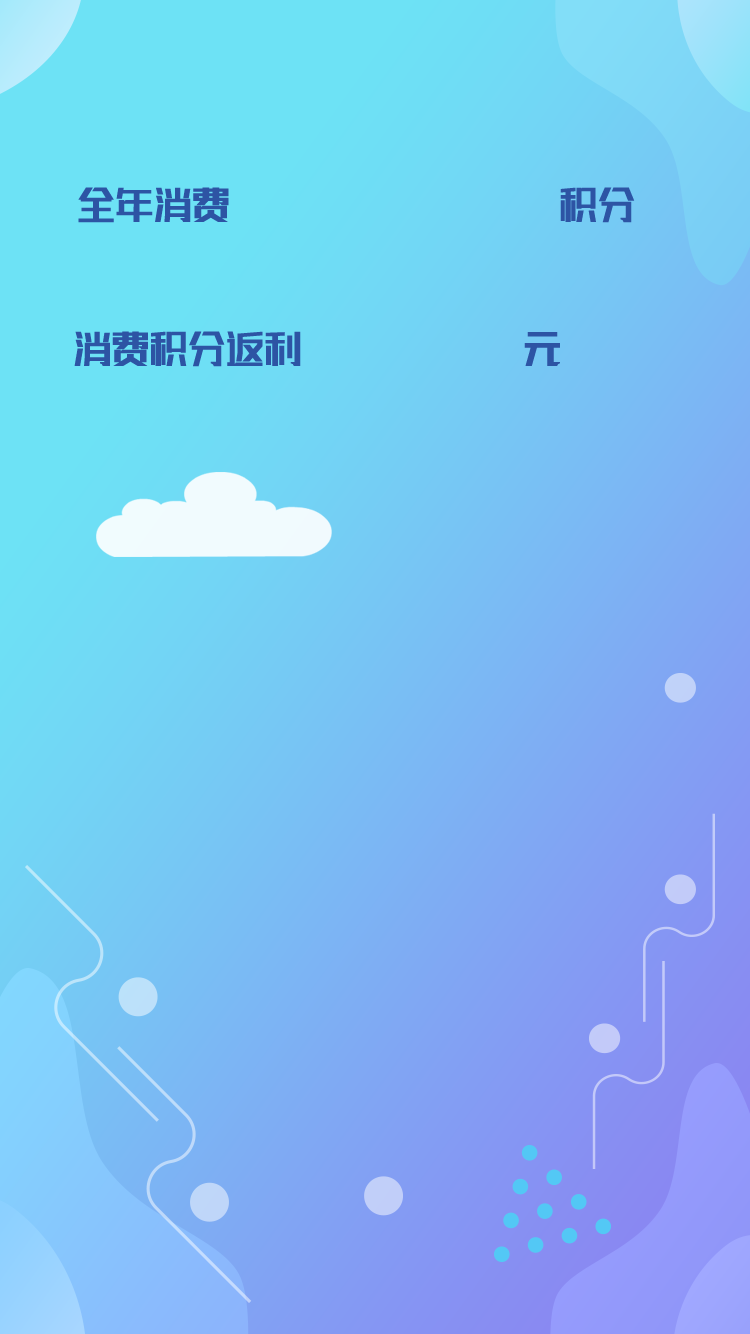
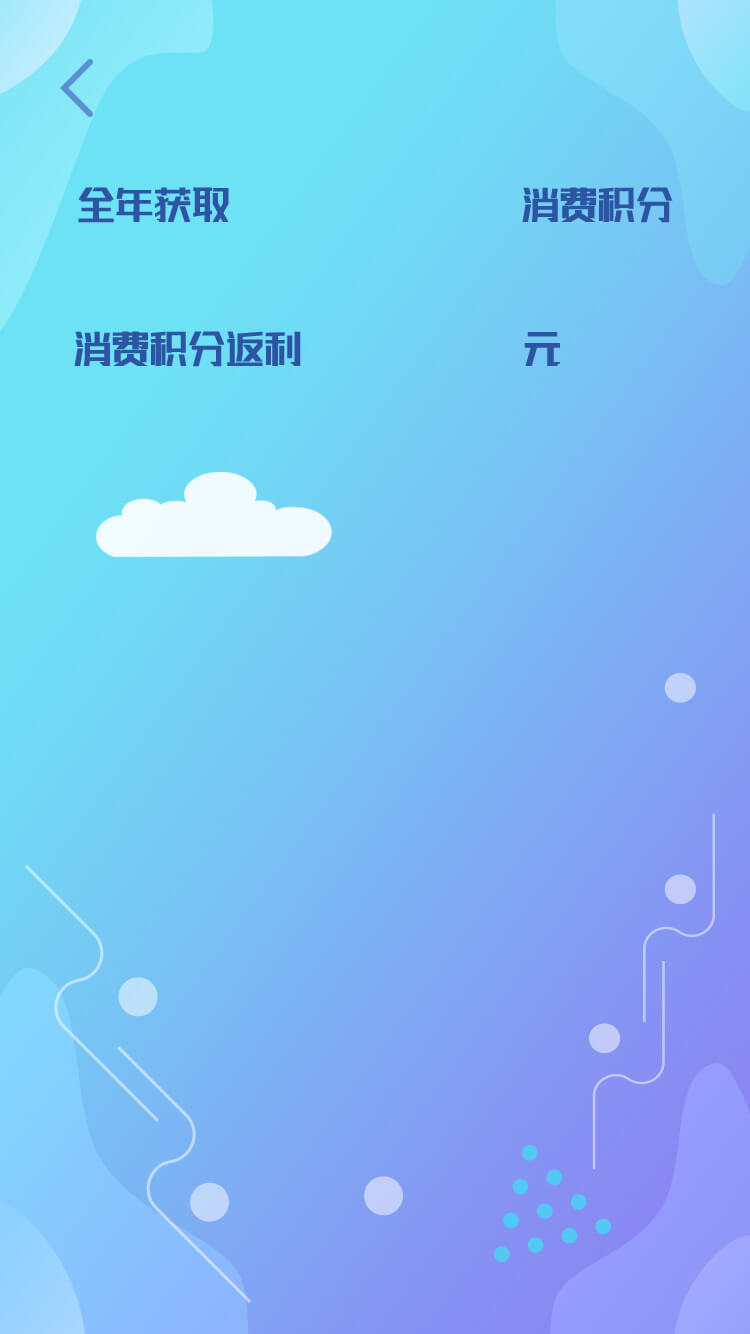
背景图更换和4，5页更换

Changed region(s): [[0.0, 0.0, 0.3067, 0.2459], [0.7053, 0.1229, 0.8893, 0.1844], [0.2147, 0.1229, 0.3067, 0.1844]]

diff --git a/birthday.html b/birthday.html
@@ -33,12 +33,12 @@
 		.sec1 img:nth-child(1){position: absolute;left: 10%;bottom: 15%;width: 85%;}
 		.sec1 img:nth-child(2){position: absolute;left: 8.5rem;bottom: 6%;width: 0.5rem;} 
 		.sec2 .center{width: 100%;text-align: center;margin-top:6%;}
-		.sec2 .center img{width: 55%}
+		.sec2 .center img{width: 42%}
 		/*.sec2 img:nth-child(1){position: absolute;left: 23%;bottom: 15%;width: 58%;}*/
-		.archives{width: 100%;margin:0.7rem auto;text-align: center;font-size: 0.7rem;}  
+		.archives{width: 100%;margin:0.4rem auto;text-align: center;font-size: 0.7rem;}  
 		.contant{width: 80%;background: #ffce35;margin: 0 auto;font-size: 0.45rem;border-radius: 3px}
 		.contant div{line-height: 1rem;margin-left: 0.7rem}
-		.contant div input{-webkit-appearance: none;outline: none;border:none;font-size: 0.45rem;background: #ffce35;width:30%;border-bottom: 1.5px solid black;}
+		.contant div input{-webkit-appearance: none;outline: none;border:none;font-size: 0.45rem;background: #ffce35;width:30%;border-bottom: 1.5px solid black;border-radius:0;}
 		.contant div span{border-bottom: 1.5px solid black;}
 		.contant div:nth-child(1){padding-top:.5rem;}
 		.daytime{
@@ -54,7 +54,7 @@
 			text-align: center;font-weight: bold;}
 		.daywhere span{font-size: .5rem}
 		.top{width: 1.2rem;color: #fff; position: absolute;left: 8.3rem;font-size: 0.5rem;font-weight: bold;bottom: 12%;}
-		.archivess{width: 6.5rem;height: 1rem;background: #fb383e;margin-left:1.8rem;margin-top:.6rem;text-align: center;color: #fff;font-size: 0.5rem;line-height: 1rem;border-radius: 20px;}
+		.archivess{width: 6.5rem;height: 1rem;background: #fb383e;margin-left:1.8rem;text-align: center;color: #fff;font-size: 0.5rem;line-height: 1rem;border-radius: 20px;position: absolute;bottom: 90px;}
 		.mousehei{margin: 12% auto;text-align: center;}
 		.mousehei img{width: 71%;}
 	</style>
@@ -102,14 +102,14 @@
 			var zhucetime = window.localStorage.getItem("zhucetime");//获取注册时间
 			var date = new Date(zhucetime);
 			var year = date.getFullYear(),month = date.getMonth()+1,day = date.getDate();
-			// var clientHeight = document.body.clientHeight;
+			var clientHeight = document.body.clientHeight;
 			// $(".section").css("height",clientHeight+"px")
-			if(clientHeight <= 667){
-			  $(".center img").css("width","40%");
-			  $(".archivess").css("marginTop",".3rem");
-			  $(".archives").css("margin","0.4rem auto");
-			  $("._mouse").css("width","75%").css("left","13%")
-			}
+			// if(clientHeight <= 667){
+			//   $(".center img").css("width","40%");
+			//   $(".archivess").css("marginTop",".3rem");
+			//   $(".archives").css("margin","0.4rem auto");
+			//   $("._mouse").css("width","75%").css("left","13%")
+			// }
 			 
 	 // ---------1-------------------------
             $(".year").html(year);//获取年
@@ -148,7 +148,6 @@
 		    $('.archivess').on("touchend",function(){
 		    	alert('假设注册时间'+zhucetime)
 				  time ('Jan 1,2020',zhucetime).then((x)=>{
-					  console.log(x)
 				     x == "yes"?window.location.href='archives.html':window.location.href='noscore.html'
 				   })
 		    })

diff --git a/archives.html b/archives.html
@@ -34,8 +34,8 @@
 			/*background: url('image/bg_4@2x.jpg') 0 0/100% 100%;*/
 			/*background-size: 100% 100%;*/
 		}
-		.sec4{background: url('image/bg_5@2x.jpg') 0 0/100% 100%;}
-		.sec5{background: url('image/bg_6@2x.jpg') 0 0/100% 100%;}
+		.sec5{background: url('image/bg_5@2x.jpg') 0 0/100% 100%;}
+		.sec4{background: url('image/bg_6@2x.jpg') 0 0/100% 100%;}
 		.sec1 span{font-size: .3rem;color: #fff;}
 		.sec1 span:nth-child(1){position: absolute;left: 25.6%;top: 50.2%;}
 		.sec1 span:nth-child(2){position: absolute;left: 70.5%;top: 58%;}
@@ -49,14 +49,14 @@
 		.sec2 .items{font-size: 1.3rem; position: absolute; left: 2.15rem;top: 20.5%;width: 3.2rem;text-align: center;color: #dc3939;}
 		/*.sec1 img:nth-child(1){position: absolute;left: 0.4rem;top: 8.2rem;width: 9rem;height: 7rem;}
 		.sec1 img:nth-child(2){position: absolute;left: 8.4rem;top: 16.2rem;width: .7rem;height: 1rem;} */
-		.sec3 .bigScore .scores{font-size: 1.2rem; position: absolute;left: 3.2rem;top: 10%;width: 4rem;text-align: center;color: #dc3939;}
+		.sec3 .bigScore .scores{font-size: 1.2rem; position: absolute;left: 3.2rem;top: 10%;width: 3.6rem;text-align: center;color: #dc3939;}
 		.sec3 .bigScore .rebate{font-size: 1.2rem;position: absolute;left: 4.1rem;top: 21%;width: 2.8rem;text-align: center;color: #dc3939;}
 		.sec3 .bigScore img{position: absolute;left: 15%;bottom: 17%;width: 64%;}
 		.sec3 .smallScore img{position: absolute;left: 20%;bottom: 8%;width: 62%;}
-		.sec4 img{position: absolute;left: 11%; bottom: 8%;width: 65%;}
-		.sec5 img{position: absolute;left: 13%; bottom: 13%;width: 75%;}
-        .sec5 .plays{font-size: 1.2rem;position: absolute;left: 3.8rem;top: 10%;width: 2.4rem;text-align: center;color: #dc3939;}
-        .sec5 .moneys{font-size: 1.2rem; position: absolute;left: 3.8rem;top: 21%;width: 3.5rem; text-align: center;color: #dc3939;}
+		.sec5 img{position: absolute;left: 11%; bottom: 8%;width: 65%;}
+		.sec4 img{position: absolute;left: 13%; bottom: 13%;width: 75%;}
+        .sec4 .plays{font-size: 1.2rem;position: absolute;left: 3.8rem;top: 10%;width: 1.9rem;text-align: center;color: #dc3939;}
+        .sec4 .moneys{font-size: 1.2rem; position: absolute;left: 3.8rem;top: 21%;width: 3.5rem; text-align: center;color: #dc3939;}
         .sec6 .bigExperience img{position: absolute;left: 21%;bottom:7%;width: 56%;}
 		.sec6 .smallExperience img{position: absolute;left: 27%;bottom:12%;width: 60%;}
         .sec6 .bigExperience .shopMoney{font-size: 1.2rem; position: absolute;left: 4.8rem;top: 10%;width: 3.5rem; text-align: center;color: #dc3939;}
@@ -99,13 +99,14 @@
 	</div>
 	<!-- 第四页 -->
 	<div class="section sec4">
-       <img src="image/mouse_5@2x.png">
+       <img src="image/mouse_6@2x.png">
+        <p class="plays">23</p>
+        <p class="moneys">6000</p>
 	</div>
 	<!-- 第五页 -->
     <div class="section sec5">
-    	<img src="image/mouse_6@2x.png">
-        <p class="plays">23</p>
-        <p class="moneys">6000</p>
+    	
+        <img src="image/mouse_5@2x.png">
 	</div>
 	<!-- 第六页 -->
 	<div class="section sec6">

diff --git a/noscore.html b/noscore.html
@@ -13,7 +13,7 @@
     <style type="text/css">
     	*{margin:0;padding: 0;}
     	html,body{width: 100%;height: 100%;}
-    	.onscore{width:100%;height:100%;position: relative;background: url("image/bg_10@2x.jpg");background-size: 100% 100%;}
+    	.onscore{width:100%;height:100%;position: relative;background: url("image/bg_10@2x.jpg");background-size: 100% 100%;overflow: hidden;}
         .onscoreOpen{width: 6.5rem;height: 1rem;background: #fb383e;position: absolute;left:1.7rem;bottom: .7rem;text-align: center;color: #fff;font-size: 0.5rem;line-height: 0.9rem;border-radius: 20px;}
         .onscore img{position: absolute; left: 0.9rem;bottom: 11%;width: 8rem;}
     </style>
